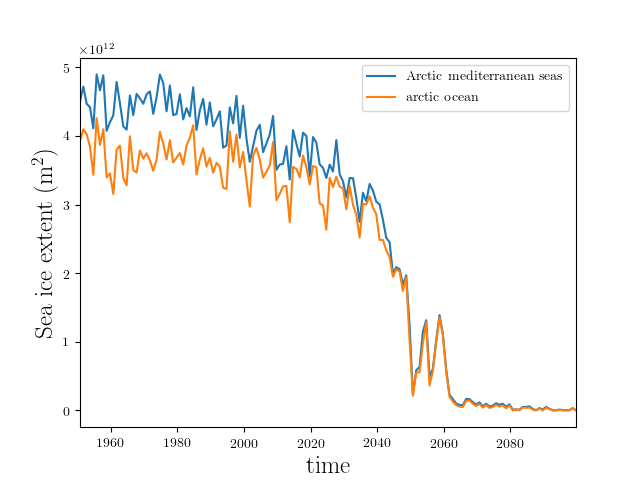
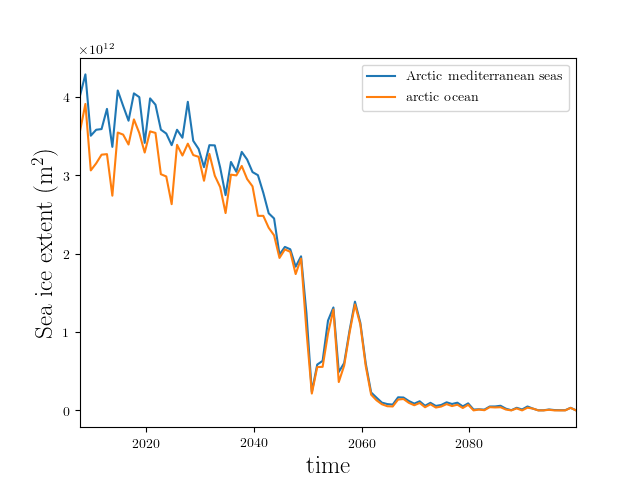
Brunt Vaisala frequency.. no comprendo nada

diff --git a/EC_start/BV_time_series.py b/EC_start/BV_time_series.py
@@ -18,11 +18,11 @@ import loading
 
 
 var = 'BruntVF'			# sal, temp, IceC, ML, BruntVF vobn2
-option = 'Uncoupled'		# Coupled, Uncoupled
-y1 = 1950
+option = 'Coupled'		# Coupled, Uncoupled
+y1 = 2006
 y2 = 2100
 
-basin ='undefined'		# arctic_ocean, BS_and_KS, greenland_sea, Siberian_seas, undefined
+basin ='greenland_sea'		# arctic_ocean, BS_and_KS, greenland_sea, Siberian_seas, undefined
 lat_min = 66.34 		#IF basin = 'undefined'
                                 #ex: 66.34 for polar circle
 
@@ -39,7 +39,7 @@ class From1950to2100():									#//
         										#//
   #___________________									#//
   def __init__(self,option,var,y1,y2,compa,lat_min,basin):				#//
-     self.max_depth = 1000	                                                        #//
+     self.max_depth = 200	                                                        #//
      self.first_year = 1950
      self.y1 = y1 	                                                                #//
      self.y2 = y2
@@ -53,41 +53,10 @@ class From1950to2100():									#//
      elif compa == 'yes':
         self.output_file = str(var)+'_TimeSerieAnomaly_'+str(sufix)
 
-     self.path = '/media/fig010/LACIE SHARE/EC_Earth/EC_data/EC_start_'+str(option)+'3.nc' 
+     self.path = '/media/fig010/LACIE SHARE/EC_Earth/EC_data/bn2_'+str(option)+'.nc' 
 
-     if compa == 'yes':
-      if var == 'temp':                                                                 #//
-        self.vmin = -1                                                                   #//
-        self.vmax = 2.6                                                                 #//
-      elif var == 'sal':                                                                #//
-        self.vmin = -1.08                                                               #//
-        self.vmax = 0.15	                                                        #//
-
-     elif compa =='no':
-      if y2<2010:
-       if var == 'temp':                                                                #//
-        self.vmin = -1.23                                                               #//
-        self.vmax = -0.04                                                               #//
-       elif var == 'sal':                                                               #//
-        self.vmin = 31.92                                                               #//
-        self.vmax = 34.86	                                                        #//
-      elif y1>1999:
-       if var == 'temp':                                                                #//
-        self.vmin = -0.9                                                                #//
-        self.vmax = 2.8                                                                 #//
-       elif var == 'sal':                                                               #//
-        self.vmin = 31.92                                                               #//
-        self.vmax = 34.86	                                                        #//
-      else:
-       if var == 'temp':                                                                #//
-        self.vmin = -1.2                                                                #//
-        self.vmax = 2.5                                                                 #//
-       elif var == 'sal':                                                               #//
-        self.vmin = 31.92                                                               #//
-        self.vmax = 34.86	                                                        #//
-       elif var == 'BruntVF':                                                               #//
-        self.vmin = -100                                                              #//
-        self.vmax = 5	                                                        #//
+     self.vmin = -1005                                                               #//
+     self.vmax = -405                                                               #//
 
      return										#//
 #//////////////////////////////////////////////////////////////////////////////////////////
@@ -96,9 +65,10 @@ def time_serie_Arctic(path,var,lat_min,basin):
 
   yr, xr, time, depth = loading.extracting_coord(path)
   TorS = loading.extracting_var(path, var)
-  print(np.shape(TorS))
-  S = loading.extracting_var(path,'sal')
-  TorS[np.where( S==0. )] = np.nan
+  print(np.shape(TorS))  
+  #S = loading.extracting_var(path,'sal')
+  print(np.min(TorS),np.max(TorS))
+  TorS[np.where( TorS==0. )] = np.nan
 
   if basin =='undefined':
      mask = loading.latitudinal_band_mask(yr,lat_min,90)
@@ -107,7 +77,7 @@ def time_serie_Arctic(path,var,lat_min,basin):
      make_plot.points_on_map(xr[mask],yr[mask],var,basin)
 
   arctic = TorS[mask,:,:]
-  print(np.nanmax(arctic))
+
   mean_Arctic = np.nanmean(arctic,axis=0)
 
   return time, depth, mean_Arctic
@@ -139,10 +109,11 @@ if var == 'IceC':
 else:
   time, depth, mean_region_simu = time_serie_Arctic(simu.path,var,lat_min,basin)
   #time, ML = time_serie_Arctic_2D(simu.path,'ML',lat_min,basin)
-  #sea_ice_extent = loading.extract_sea_ice_ext(y1,y2)
+  sea_ice_extent = loading.extract_sea_ice_ext(y1,y2,option)
 
 index_y1 = np.min(np.where(simu.first_year+time[:]/(3600*24*364.5)>simu.y1))
 index_y2 = np.min(np.where(simu.first_year+time[:]/(3600*24*364.5)>simu.y2))
+
 
 
 # JUST ONE TIME SERIE PLOT
@@ -153,7 +124,7 @@ if comparison == 'no':
    else:
      #make_plot.time_serie(mean_region_simu[:,index_y1:index_y2],var,time[index_y1:index_y2],ML[index_y1:index_y2],\
      #print(np.shape(sea_ice_extent), np.size(mean_region_simu[0,index_y1:index_y2]))
-     make_plot.time_serie_two_axis(mean_region_simu[:,index_y1:index_y2-1],var,time[index_y1:index_y2-1],time[index_y1:index_y2-1],\
+     make_plot.time_serie_two_axis(mean_region_simu[:,index_y1:index_y2-1],var,time[index_y1:index_y2-1],sea_ice_extent,\
                        depth,simu.max_depth,simu.first_year,simu.output_file,simu.vmin,simu.vmax,basin)
 else:
    index_y1c =np.min(np.where(simu.first_year+time[:]/(3600*24*364.5)>y1_compa))

diff --git a/EC_start/basic_map.py b/EC_start/basic_map.py
@@ -16,13 +16,13 @@ import numpy as np
 import make_plot
 import loading
 
-var = 'ML'
-option = 'Coupled'
+var = 'BruntVF'
+option = 'Uncoupled'
 specificity = ''
-y1 = 2090
-y2 = 2100
+y1 = 1950
+y2 = 2020
 
-comparison = 'yes'
+comparison = 'no'
 
 title_plot =  str(specificity)+' '+str(y1)+' to '+str(y2)
 
@@ -43,7 +43,8 @@ class From1950to2100():                                                         
      elif compa == 'yes':
         self.output_file = str(var)+'_map_'+str(self.y1)+'to'\
                            +str(self.y2)+'AnoTo90s_'+str(option)                                #//
-     self.path = '/media/fig010/LACIE SHARE/EC_Earth/EC_data/EC_start_'+str(option)+'.nc'
+     #self.path = '/media/fig010/LACIE SHARE/EC_Earth/EC_data/EC_start_'+str(option)+'.nc'
+     self.path = '/media/fig010/LACIE SHARE/EC_Earth/EC_data/bn2_'+str(option)+'.nc'
 
      if compa == 'yes':
       if var == 'temp':                                                                 #//
@@ -72,6 +73,9 @@ class From1950to2100():                                                         
       elif var == 'sal':                                                               #//
         self.vmin = 31.92                                                               #//
         self.vmax = 34.86                                                               #//
+      elif var == 'BruntVF':                                                               #//
+        self.vmin = -1100                                                              #//
+        self.vmax = -1000                                                             #//
 
      return                                                                             #//
 #//////////////////////////////////////////////////////////////////////////////////////////
@@ -113,8 +117,8 @@ if var == 'ML' or var == 'IceC':
 else:
   yr, xr, time, depth = loading.extracting_coord(simu.path)
 
-print(np.shape(time),np.shape(xr))
 VarArray_simu = loading.extracting_var(simu.path, var)
+print(np.shape(time),np.shape(xr),np.shape(VarArray_simu))
 
 index_y1 = np.min(np.where(simu.first_year+time[:]/(3600*24*364.5)>simu.y1))
 index_y2 = np.min(np.where(simu.first_year+time[:]/(3600*24*364.5)>simu.y2))
@@ -124,7 +128,9 @@ if comparison == 'no':
    if var == 'ML' or var == 'IceC':
      make_plot.plot_map(xr,yr,np.mean(VarArray_simu[:,:,index_y1:index_y2+1],axis=2) ,var,title_plot,simu.output_file,simu.vmin,simu.vmax)
    else:
-     make_plot.plot_map(xr,yr,np.mean(VarArray_simu[:,:,0,index_y1:index_y2+1],axis=2) ,var,title_plot,simu.output_file,simu.vmin,simu.vmax)
+    print(np.max(VarArray_simu[:,:,0,index_y1]), np.min(VarArray_simu[:,:,0,index_y1])) 
+    make_plot.plot_map(xr,yr,VarArray_simu[:,:,0,index_y1] ,var,title_plot,simu.output_file,simu.vmin,simu.vmax)
+
 elif comparison == 'yes':
    index_y1c = np.min(np.where(simu.first_year+time[:]/(3600*24*364.5)>simu.y1_compa))
    index_y2c = np.min(np.where(simu.first_year+time[:]/(3600*24*364.5)>simu.y2_compa))

diff --git a/EC_start/make_plot.py b/EC_start/make_plot.py
@@ -3,6 +3,7 @@ import mpl_toolkits
 from mpl_toolkits.basemap import Basemap
 from matplotlib.ticker import NullFormatter,MultipleLocator, FormatStrFormatter
 import matplotlib.gridspec as gridspec
+import matplotlib.colors as colors
 
 import scipy
 import netCDF4
@@ -21,7 +22,7 @@ def Forder(var):
 
 def points_on_map(xr,yr,variable_name,ocean):
    m = Basemap(projection='lcc', resolution='l',
-            lon_0=-20, lat_0=70, lat_1=89, lat_2=50,
+            lon_0=-20, lat_0=70, lat_1=89.99999, lat_2=50,
             width=1.E7, height=0.9E7)
    #m = Basemap(projection='ortho',lat_0=60,lon_0=-20,resolution='l')
    x,y = m(xr, yr)
@@ -197,15 +198,18 @@ def time_serie_two_axis(var,variable_name,t,ice_ext,z,zmax,year,option,vmin,vmax
       mappable = ax1.contourf(year+t/(24*3600*365.),z[0:i_zmax+1],var[0:i_zmax+1,:],40,vmin=vmin,vmax=vmax)
    elif variable_name == 'sal':
       mappable = ax1.contourf(year+t/(24*3600*365.),z[0:i_zmax+1],var[0:i_zmax+1,:],40,vmin=vmin,vmax=vmax)#,vmin=31.76,vmax=34.02)
+   elif variable_name == 'BruntVF':
+      mappable = ax1.contourf(year+t/(24*3600*365.),z[0:i_zmax+1],var[0:i_zmax+1,:],40,vmin=vmin,vmax=vmax)#,vmin=31.76,vmax=34.02)
    plt.ylim([np.min(z),z[i_zmax]])
    plt.ylabel(r'Depth (m)')
    plt.gca().invert_yaxis()
    cbar = fig.colorbar(mappable, pad=0.15)
-
    if variable_name == 'temp':
     cbar.set_label(r'Temperature ($^{o}$C)',fontsize=18)
    elif variable_name == 'sal':
     cbar.set_label(r'Salinity (PSU)',fontsize=18)
+   elif variable_name == 'BruntVF':
+    cbar.set_label(r'Brunt Vaisala frequency',fontsize=18)
    
    ax2 = ax1.twinx()
    ax2.plot(year+t/(24*3600*365.),ice_ext,linewidth=3,color="black")

diff --git a/Sept_Ice/time_serie_ice_extent.py b/Sept_Ice/time_serie_ice_extent.py
@@ -28,7 +28,7 @@ lat_min = 66.34 		#IF basin = 'undefined'
                                 #ex: 66.34 for polar circle
 
 comparison = 'no'
-y1_compa = 1950
+y1_compa = 2006
 y2_compa = 2000
 
 #if var == 'IceC':
@@ -177,7 +177,7 @@ var_fc_time(ice_extent[index_y1:index_y2+1],var,time[index_y1:index_y2+1],simu.f
 simu_2 = From1950to2100(option,var,y1,y2,comparison,lat_min,basin2,basin,month) 
 time, ice_extent2 = time_serie_sea_ice_ext(simu_2.path,var,lat_min,basin2)
 
-file = open('/media/fig010/LACIE SHARE/EC_Earth/EC_data/Septembre_Sea_ice_extent_'+str(y1)+'to'+str(y2)+'.txt','w')
+file = open('/media/fig010/LACIE SHARE/EC_Earth/EC_data/Septembre_Sea_ice_extent_'+str(y1)+'to'+str(y2)+'_'+str(option)+'.txt','w')
 for i in range(0,index_y2-index_y1+1):
     file.write(str(ice_extent2[index_y1+i])+'\n')
 file.close()

diff --git a/EC_start/loading.py b/EC_start/loading.py
@@ -45,6 +45,8 @@ def extracting_var(path, variable_name):
     var = Forder(nc.variables['soicecov'][:])
   elif variable_name =='rho':
     var = Forder(nc.variables['vosigma0'][:])
+  elif variable_name =='BruntVF':
+    var = Forder(nc.variables['vobn2'][:])
   nc.close()
   return var
 
@@ -128,9 +130,9 @@ def Ocean_mask(x,y,basin):
 
   return mask
 
-def extract_sea_ice_ext(y1,y2):
+def extract_sea_ice_ext(y1,y2,option):
 
-   txt_file = '/media/fig010/LACIE SHARE/EC_Earth/EC_data/Septembre_Sea_ice_extent_'+str(y1)+'to'+str(y2)+'.txt'
+   txt_file = '/media/fig010/LACIE SHARE/EC_Earth/EC_data/Septembre_Sea_ice_extent_'+str(y1)+'to'+str(y2)+'_'+str(option)+'.txt'
    ice_ext_array = np.zeros((y2-y1-1))
    with open(txt_file, "r") as f:
      tab = []
